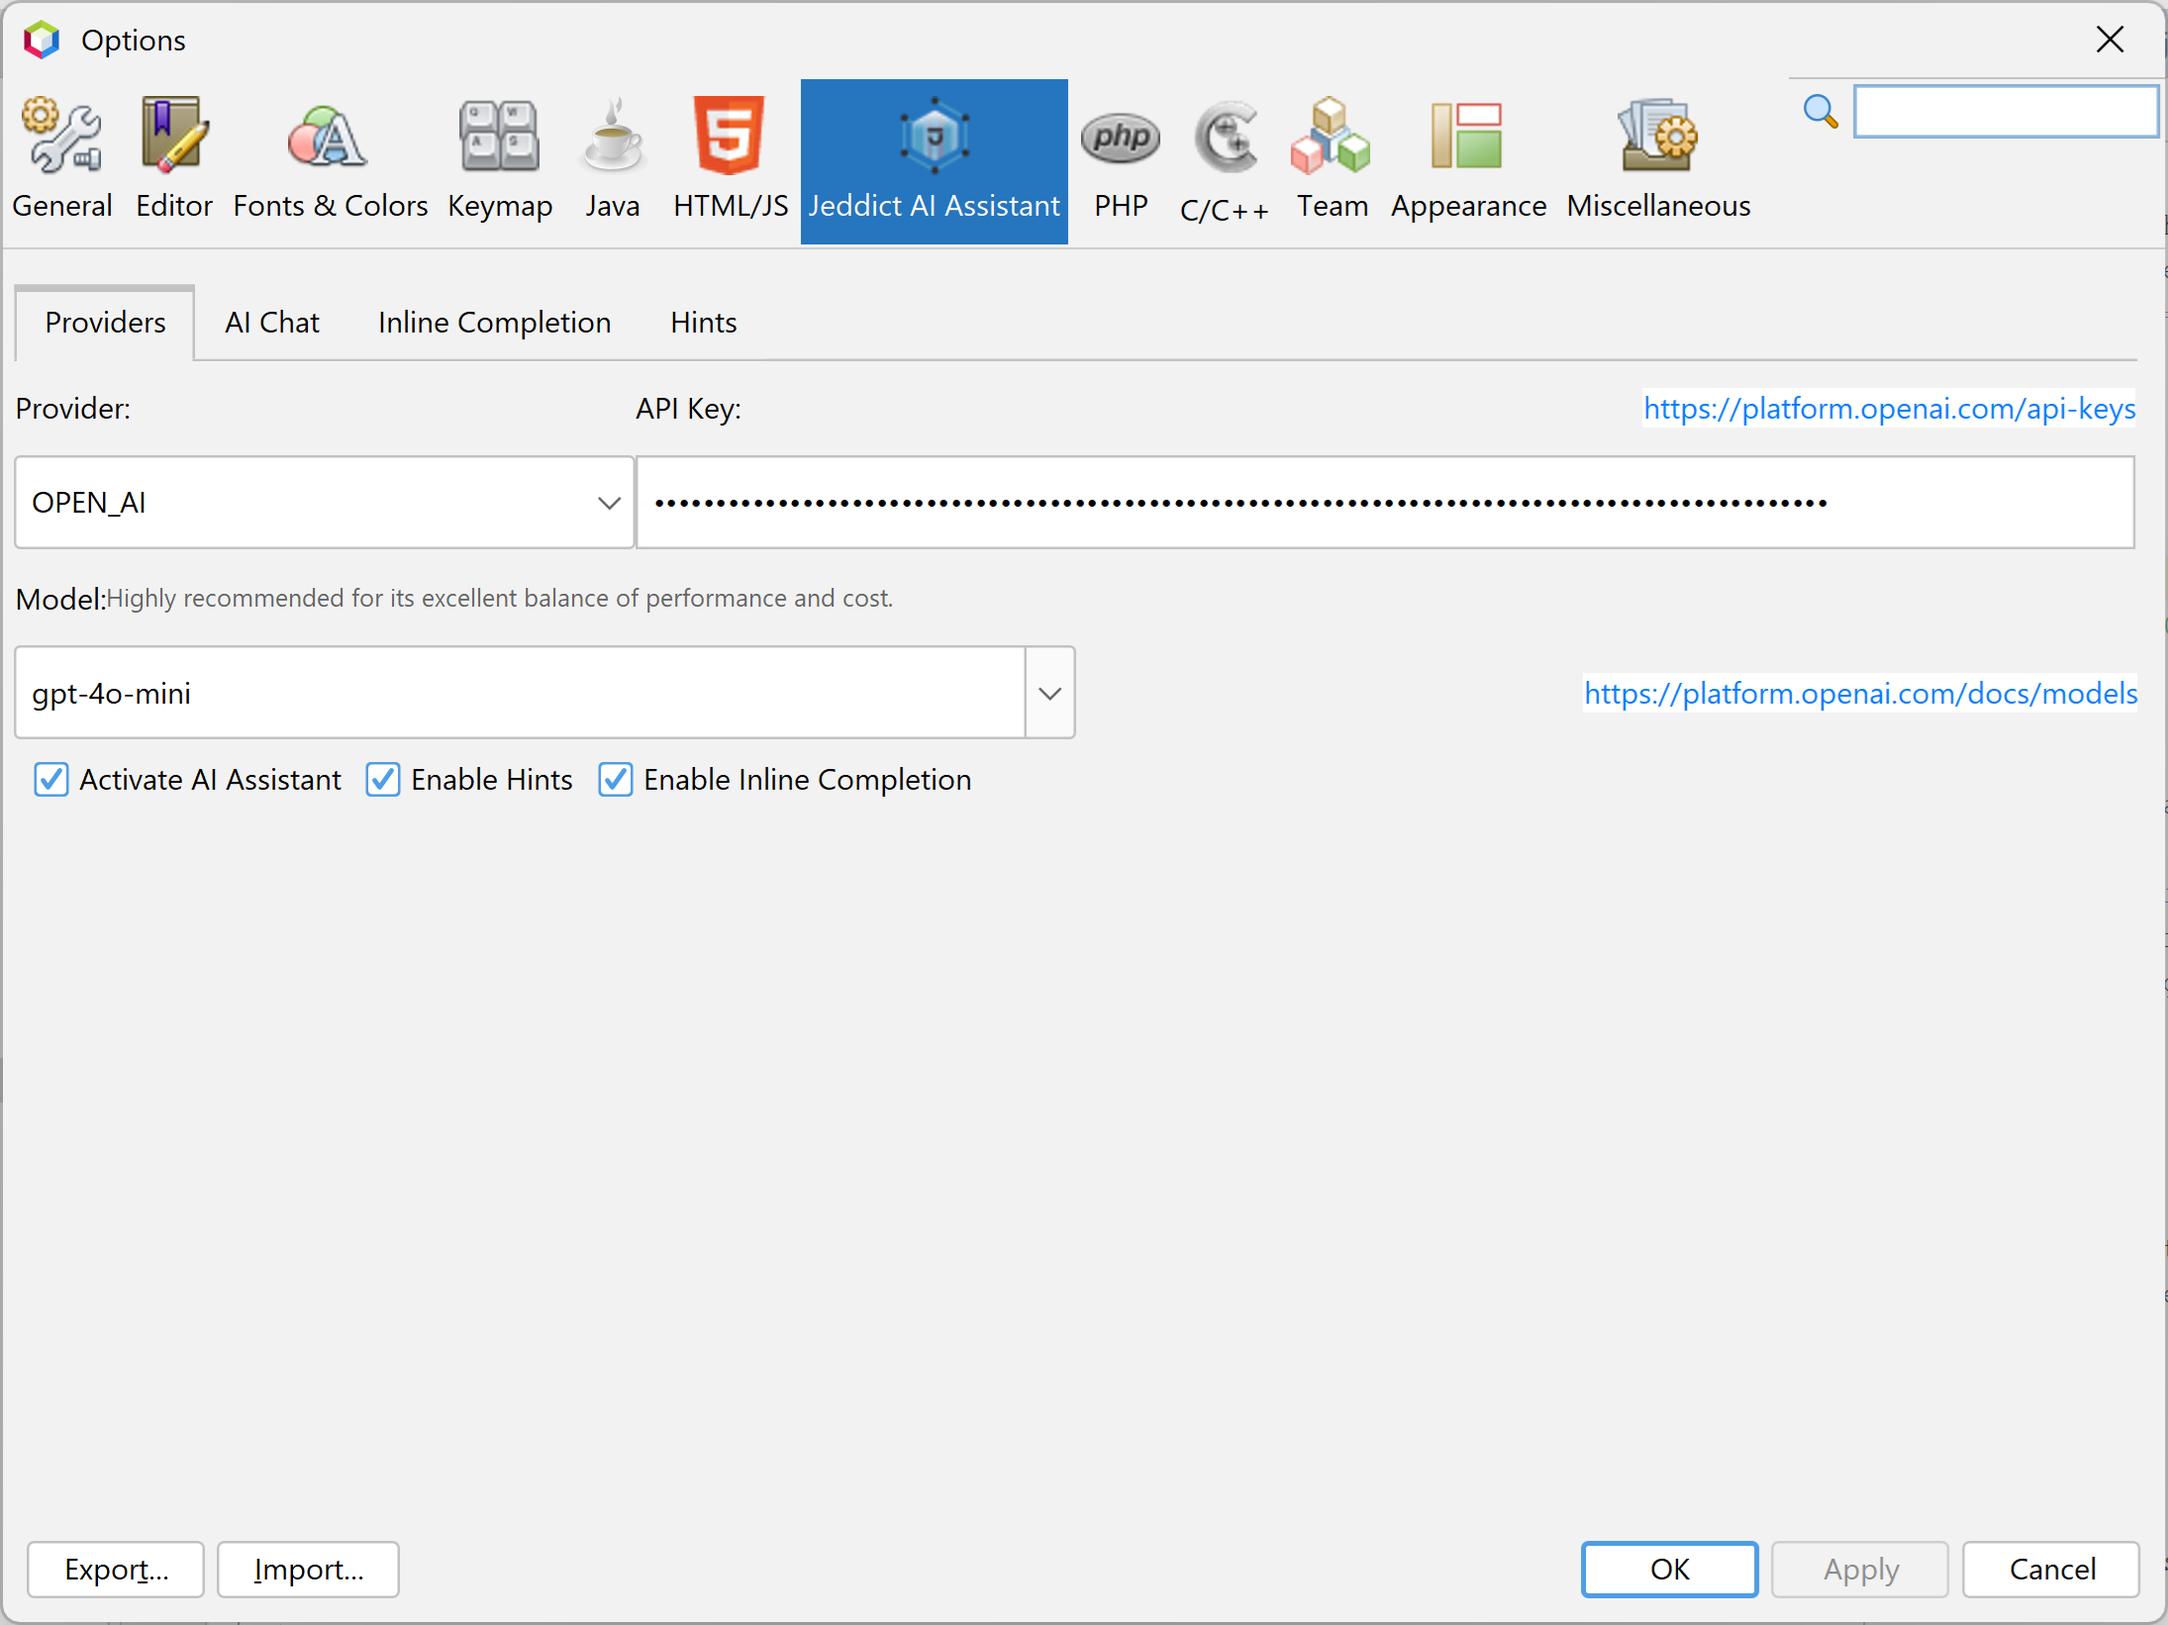
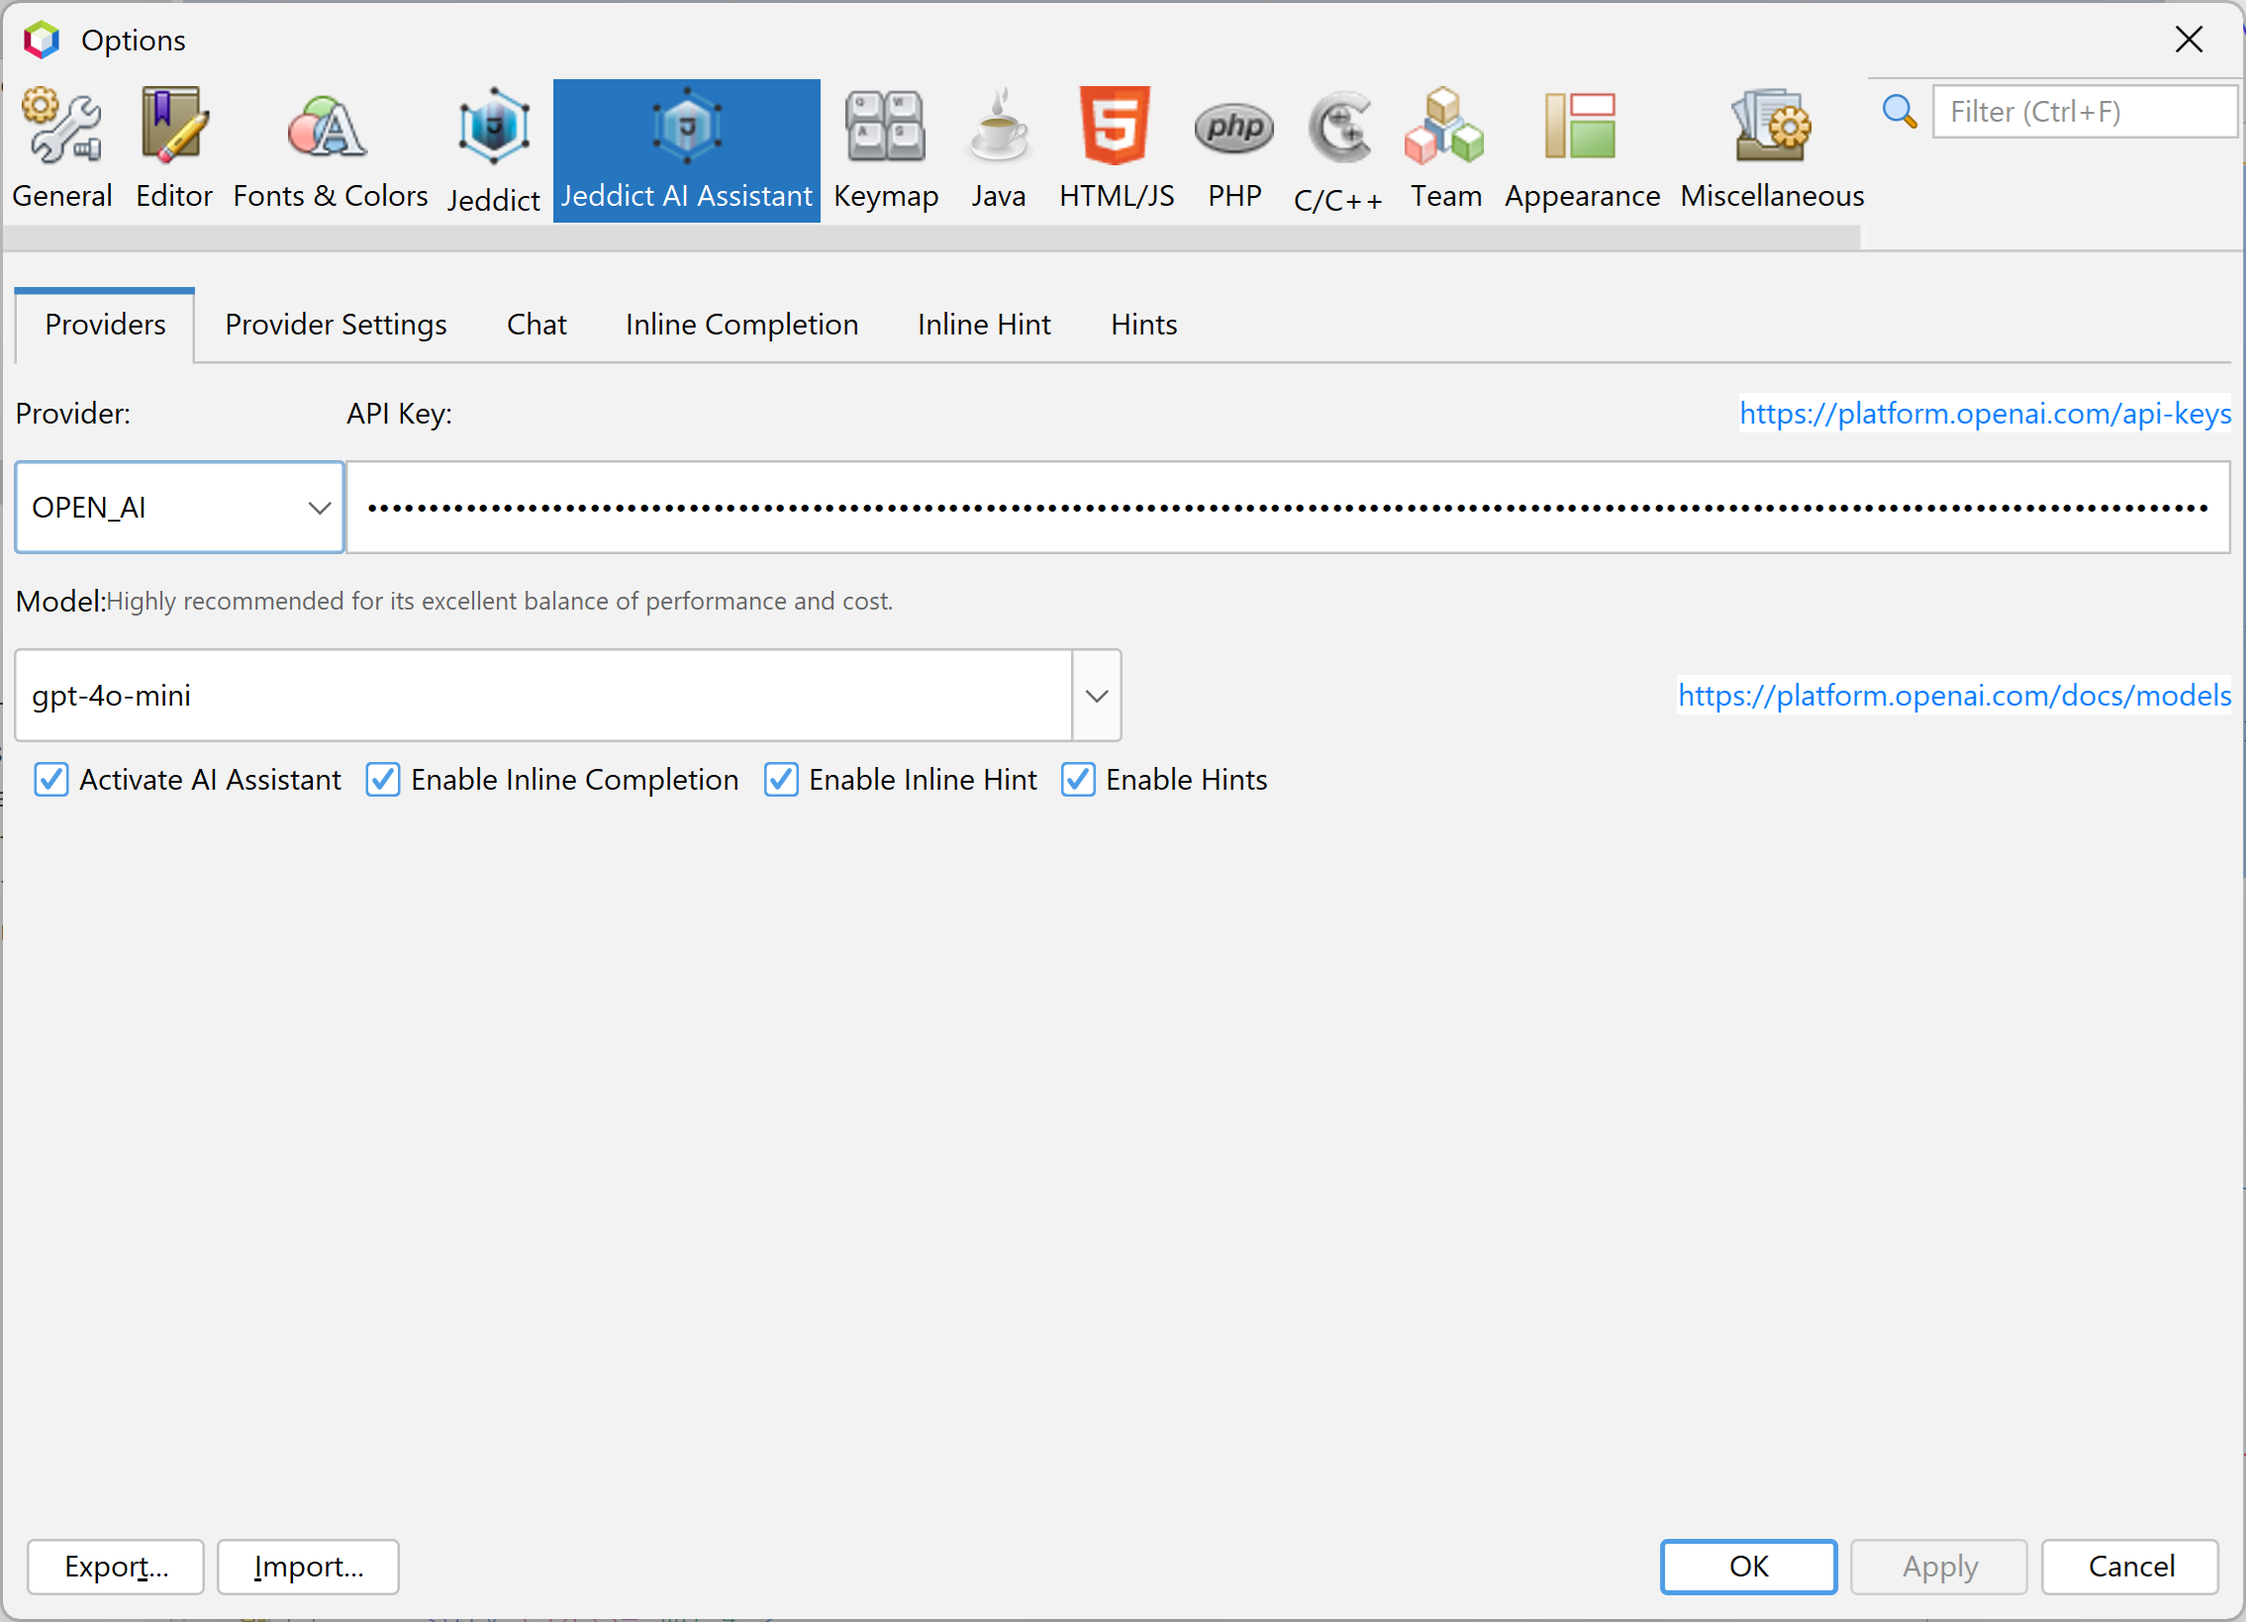
Release Jeddict v2.2

diff --git a/tutorial/AI.html b/tutorial/AI.html
@@ -35,7 +35,22 @@
         <img src="jeddict-ai/resource/0-SmartSuggestions.gif" alt="Smart Suggestions" class="feature-img" width="1200" />
     </div>
 
-
+    <div class="mb-4">
+        <h4>Inline Hint</h4>
+        <p>The "Inline Hint" feature allows developers to receive AI-generated suggestions directly within the code editor. 
+            When you press Enter while editing a line of code, the AI Assistant will display an inline hint based on the context of the code you are working on. 
+            This inline hint appears in the code editor itself, providing immediate assistance without disrupting your workflow.
+        </p>
+        <strong>To use this feature:</strong> 
+        <ul>
+            <li>While editing your source code, press Enter to invoke the AI Assistant's inline hint for the current line of code.</li>
+            <li>The suggestion will be shown inline within the editor.</li>
+            <li>Press Enter again to confirm the suggestion and integrate it into your code, or press any other key to cancel the operation and dismiss the hint. </li>
+        </ul>
+        This functionality enhances the coding experience by offering contextual recommendations that can improve code quality and efficiency without requiring you to navigate away from your current task.
+        <img src="jeddict-ai/resource/0-InlineHints.gif" alt="Inline Hint" class="feature-img" width="1200" />
+    </div>
+    
     <div class="mb-4">
         <h4>Method Enhancement</h4>
         <p>Improve the logic, structure, or efficiency of methods using AI-powered enhancements tailored to your project's specific requirements.</p>
@@ -215,6 +230,10 @@
         <p>If you wish to disable the Jeddict AI Assistant, navigate to <strong>Tools > Options > Editor > AI Assistance</strong> and uncheck the <strong>Activate AI Assistance</strong> checkbox.</p>
         <p>To bypass AI assistance while it remains activated, use <code><strong>CTRL+ALT+SPACE</strong></code> instead of <code><strong>CTRL+SPACE</strong></code> for inline suggestions.</p>
     </div>
+    
+    <br/><br/>
+    <h2>Provider Settings</h2>
+    <img src="jeddict-ai/resource/ProviderSettings.png" alt="Provider Settings" class="feature-img" width="600" />
 
     <br/><br/>
     <h2>Chat Settings</h2>
@@ -275,6 +294,10 @@
         <p>Enable the option to show a description alongside inline code snippets for improved understanding of AI-generated suggestions. This helps explain the reasoning behind suggested code.</p>
         <img src="jeddict-ai/resource/ShowSnippetWithDescription.png" alt="Show Snippet with Description" class="feature-img" width="1000" />
     </div>
+    
+    <br/><br/>
+    <h2>Inline Hint</h2>
+    <img src="jeddict-ai/resource/InlineHint.png" alt="Inline Hint Settings" class="feature-img" width="600" />
 
     <br/><br/>
     <h2>Hints</h2>
